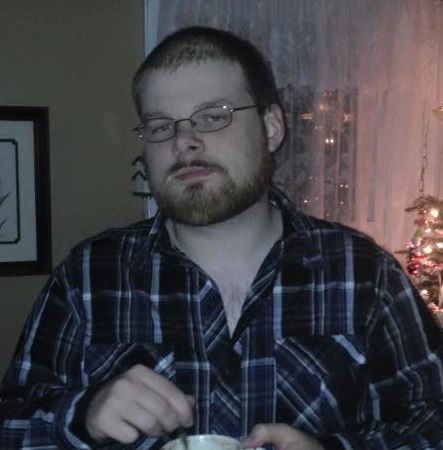
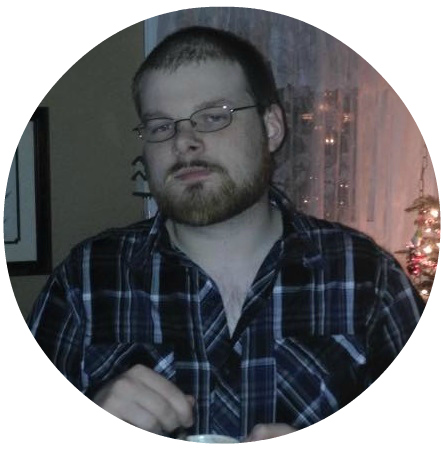
Rounded profile image, fixed more header stuff.

Changed region(s): [[0.0, 0.0, 1.0, 1.0]]

diff --git a/SoularEclipse.md b/SoularEclipse.md
@@ -2,9 +2,9 @@
 layout: post
 type:  video
 title: Soular Eclipse
-headline: About
-modified: 2015-01-16
-date: '2015-01-16 06:55:21'
+headline: Project
+modified: 2015-11-2
+date: '2015-11-2 06:55:21'
 permalink: /SoularEclipse/
 category: projects
 tags: []

diff --git a/PixieSkate.md b/PixieSkate.md
@@ -1,9 +1,9 @@
 ---
 layout: post
 title: Pixie Skate
-headline: About
-modified: 2015-01-16
-date: '2015-01-16 06:55:21'
+headline: Project
+modified: 2015-11-2
+date: '2015-11-2 06:55:21'
 permalink: /PixieSkate/
 category: projects
 tags: []

diff --git a/TitleOfGame.md b/TitleOfGame.md
@@ -2,7 +2,7 @@
 layout: post
 type:  video
 title: Title of Game
-headline: Title of Game
+headline: Project
 modified: 2015-11-2
 date: '2015-11-2 06:55:21'
 permalink: /TitleOfGame/

diff --git a/Ripple.md b/Ripple.md
@@ -2,7 +2,7 @@
 layout: post
 type:  video
 title: Ripple
-headline: About
+headline: Project
 modified: 2015-11-2
 date: '2015-11-2 06:55:21'
 permalink: /Ripple/
